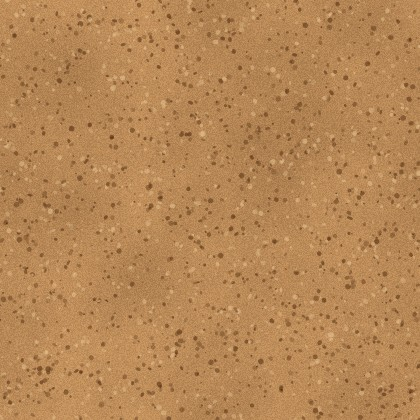
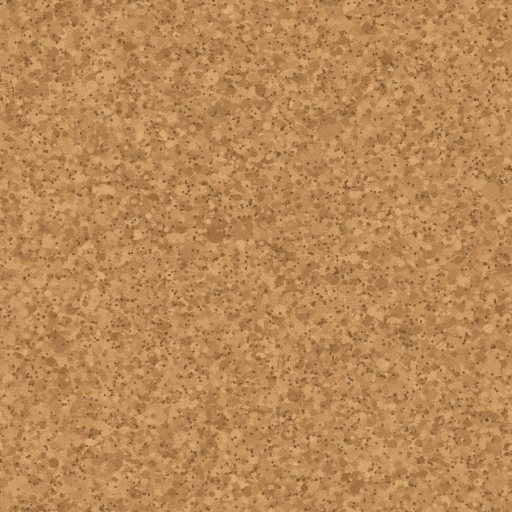
Cork and chalkboard that look like the real things
- Cork: a new seamless texture of packed granules with dark pores
  (tex/cork.jpg), a soft window light and darker edges.
- Both boards sit in a wood frame (tex/frame.jpg) lit from the top left,
  so the corners read as mitre joints, with the surface sunk behind it.
- Chalkboard: eraser smudges, dust settled toward the bottom, and a chalk
  tray holding an eraser and two sticks of chalk.
- Map: glossy push pins with cast shadows, labels taped to the cork, and
  the path drawn as red string rather than a dashed line.

Claude-Session: https://claude.ai/code/session_01RFXApB1agL4vpYiEZHp3vW

Changed region(s): [[0.0, 0.0, 1.0, 1.0]]

diff --git a/design/prototype/app.css b/design/prototype/app.css
@@ -815,3 +815,50 @@ body.am-canvas[data-medium] { background: var(--desk) url(tex/paper.jpg) !import
   .card { padding-left: 60px !important; padding-right: 16px !important; }
 }
 .lesson { padding-bottom: 0; }
+
+/* ═════════════════ Real materials: framed cork, a slate board with a chalk tray ═════════════════
+   Both boards get a wood frame (tex/frame.jpg) in their border. A border-coloured ::before over the
+   frame lights it from the top left, and the coloured borders meet on the diagonal, so the corners
+   read as mitre joints. Inset shadows sink the surface below the frame. */
+.cork, .board { --fw: 14px; position: relative; border: var(--fw) solid transparent !important; border-radius: 5px !important; }
+.cork::before, .board::before { content: ""; position: absolute; inset: calc(-1 * var(--fw)); border: var(--fw) solid; border-radius: 5px; pointer-events: none; z-index: 1;
+  border-color: rgba(255,232,190,.26) rgba(30,15,5,.16) rgba(30,15,5,.34) rgba(255,232,190,.14); }
+/* the cork: granules (tex/cork.jpg), a soft window light top left, darker toward the frame */
+.cork { margin: 0 !important;
+  background: radial-gradient(ellipse 70% 60% at 28% 18%, rgba(255,238,205,.20), transparent 70%) padding-box,
+    radial-gradient(ellipse at center, transparent 55%, rgba(70,38,12,.30)) padding-box,
+    url(tex/cork.jpg) 0 0 / 256px padding-box, url(tex/frame.jpg) center / 700px 140px border-box !important;
+  box-shadow: inset 0 0 0 1px rgba(40,20,6,.55), inset 3px 4px 8px rgba(40,20,6,.55), 0 2px 3px rgba(40,25,10,.3), 0 16px 28px -10px rgba(40,25,10,.5) !important; }
+.mm-cork { --fw: 7px; margin: 6px 0 4px !important; }
+.mm-cork::before { border-width: 7px; }
+/* the slate: dust left by erasing, more of it settled at the bottom, a dull sheen from above */
+.board { --fw: 16px; margin: 0 0 20px !important;
+  background: linear-gradient(172deg, rgba(255,255,255,.06), transparent 38%) padding-box,
+    radial-gradient(ellipse 34% 20% at 24% 34%, rgba(235,231,222,.075), transparent 70%) padding-box,
+    radial-gradient(ellipse 30% 16% at 72% 64%, rgba(235,231,222,.06), transparent 70%) padding-box,
+    radial-gradient(ellipse 22% 12% at 56% 22%, rgba(235,231,222,.045), transparent 70%) padding-box,
+    linear-gradient(0deg, rgba(235,231,222,.10), transparent 16%) padding-box,
+    var(--am-paper-texture, none) padding-box, url(tex/slate.jpg) center / cover padding-box,
+    url(tex/frame.jpg) center / 700px 140px border-box !important;
+  background-blend-mode: normal, normal, normal, normal, normal, soft-light, normal, normal !important;
+  box-shadow: inset 0 0 0 1px rgba(0,0,0,.6), inset 4px 5px 12px rgba(0,0,0,.5), inset 0 0 70px rgba(0,0,0,.32), 0 2px 3px rgba(40,25,10,.3), 0 20px 30px -12px rgba(40,25,10,.5) !important; }
+/* the chalk tray: a wood ledge under the frame, with an eraser and two sticks of chalk on it */
+.board::after { content: ""; position: absolute; z-index: 2; pointer-events: none; height: 27px;
+  left: calc(-1 * var(--fw) - 8px); right: calc(-1 * var(--fw) - 8px); bottom: calc(-1 * var(--fw) - 15px);
+  background:
+    linear-gradient(180deg, #fffef8, #e6e2d6 70%, #cfcabd) 72% 6px / 48px 7px no-repeat,
+    linear-gradient(180deg, #f8eeb4, #e2d48c) 80% 7px / 22px 6px no-repeat,
+    linear-gradient(180deg, #5f5c58, #3e3b38) 14% 10px / 70px 5px no-repeat,
+    linear-gradient(180deg, #e2c08a, #b48a50 80%, #8d6634) 14% 1px / 70px 10px no-repeat,
+    linear-gradient(180deg, rgba(255,236,200,.45) 0 1.5px, transparent 1.5px 55%, rgba(30,15,5,.35)) 0 12px / 100% 15px no-repeat,
+    url(tex/frame.jpg) 0 12px / 100% 15px no-repeat;
+  filter: drop-shadow(0 5px 5px rgba(40,25,10,.35)); }
+.recap { padding: 18px 24px 16px !important; }
+@media (max-width: 600px) { .board { --fw: 11px; } .cork { --fw: 10px; } }
+/* pins and labels on the cork */
+.gn-hi { fill: #fff; opacity: .6; pointer-events: none; }
+.gn-dim .gn-hi { opacity: .35; }
+/* the path is red string between pins: solid thread with a little shadow on the cork; stretches
+   you haven't walked yet are slacker and paler */
+.gs { stroke-dasharray: none !important; stroke-width: 1.5; opacity: .62; stroke-linecap: round; filter: drop-shadow(.6px 1.4px .5px rgba(40,18,4,.45)); }
+.gs-done { opacity: 1; stroke-width: 1.9; }

diff --git a/design/prototype/app.js b/design/prototype/app.js
@@ -115,7 +115,9 @@ function CourseMap({ D, known = [], goals = [], steps = [], current = -1, done =
   return html`<svg class="cmap ${compact ? "cmap-compact" : ""}" viewBox=${vb} role="img"
       aria-label=${steps.length ? `Course map: ${steps.length} lessons on your path${current >= 0 ? ", you are on lesson " + (current + 1) : ""}.` : "Course map of 69 concepts"}>
     ${compact ? null : D.PARTS.map((p, pi) => html`<g key=${"l" + pi} transform=${`translate(${XS[pi]} 44) rotate(${[-2, 1, -1, 2, -1.5][pi]})`}>
-      <rect x="-54" y="-14" width="108" height="26" fill="#fbf9f1" /><text y="4" text-anchor="middle" class="gl">${PART_SHORT[pi] || trunc(p.t, 18)}</text></g>`)}
+      <rect x="-53" y="-12" width="108" height="26" fill="rgba(40,18,4,.28)" /><rect x="-54" y="-14" width="108" height="26" fill="#fbf9f1" />
+      <text y="4" text-anchor="middle" class="gl">${PART_SHORT[pi] || trunc(p.t, 18)}</text>
+      <rect x="-13" y="-19" width="26" height="9" fill="rgba(250,246,226,.62)" stroke="rgba(120,100,60,.12)" stroke-width=".6" transform=${`rotate(${[3, -4, 2, -2, 4][pi]})`} /></g>`)}
     ${edges.map(([a, b]) => html`<line key=${a + ">" + b} x1=${f(L[a][0])} y1=${f(L[a][1])} x2=${f(L[b][0])} y2=${f(L[b][1])} class=${K.has(a) && K.has(b) ? "ge ge-known" : "ge"} />`)}
     ${steps.slice(1).map((id, k) => { const a = L[steps[k]], b = L[id];
       return html`<line key=${"s" + steps[k] + id} x1=${f(a[0])} y1=${f(a[1])} x2=${f(b[0])} y2=${f(b[1])} class=${"gs " + (current >= 0 && k < current ? "gs-done" : "")} />`; })}
@@ -128,8 +130,9 @@ function CourseMap({ D, known = [], goals = [], steps = [], current = -1, done =
           onKeyDown=${click ? (e) => (e.key === "Enter" || e.key === " ") && (e.preventDefault(), click()) : null}>
         <title>${tip}</title>
         ${st === "goal" || st === "now" ? html`<circle cx=${f(x)} cy=${f(y)} r=${f(r + 5)} class="gn-ring" />` : null}
-        <circle cx=${f(x)} cy=${f(y + 1.5)} r=${f(r)} fill="rgba(0,0,0,.25)" />
+        <circle cx=${f(x + r * 0.22)} cy=${f(y + r * 0.38)} r=${f(r * 1.05)} fill="rgba(40,18,4,.32)" />
         <circle cx=${f(x)} cy=${f(y)} r=${f(r)} class="gn-dot" />
+        <ellipse cx=${f(x - r * 0.3)} cy=${f(y - r * 0.34)} rx=${f(r * 0.36)} ry=${f(r * 0.26)} class="gn-hi" />
         ${(st === "path" || st === "now" || (st === "done" && !compact)) && (!compact || st === "now") ? html`<text x=${f(x)} y=${f(y + (compact ? 4 : 2.6))} text-anchor="middle" class=${compact ? "gn-num-big" : ""}>${k + 1}</text>` : null}
       </g>`; })}
     ${pulse && L[steps[pulse.from]] && L[steps[pulse.from + 1]] ? html`<${Spark} key=${"p" + pulse.key} from=${L[steps[pulse.from]]} to=${L[steps[pulse.from + 1]]} />` : null}
